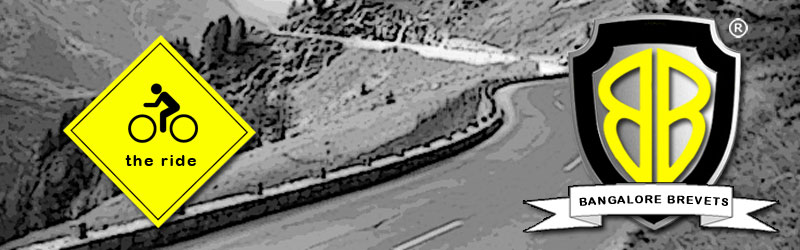
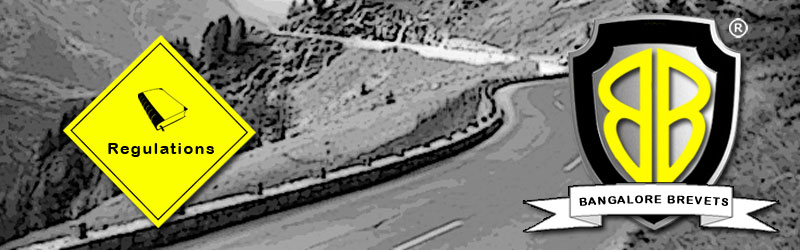
Manish | Commit : Updated TheRide.htm and TheRoute.htm pages

Changed region(s): [[0.125, 0.336, 0.2812, 0.672]]

diff --git a/Riders-BRM200.htm b/Riders-BRM200.htm
@@ -1,18 +1,34 @@
 <!DOCTYPE html PUBLIC "-//W3C//DTD XHTML 1.0 Transitional//EN" "http://www.w3.org/TR/xhtml1/DTD/xhtml1-transitional.dtd">
 <html xmlns="http://www.w3.org/1999/xhtml" >
 <head>
-    <title>registered riders for the Brevet 200K on January 15, 2011</title>    
-            <STYLE TYPE="text/css">
-      a:link {color: white; text-decoration: none; }
-      a:visited {color: white; text-decoration: none; }
 
-      TABLE#main a:link {color: blue; text-decoration: none;}
-      TABLE#main a:visited {color: blue; text-decoration: none;}
-      TABLE#main a:hover {color: red; text-decoration: underline; }
 
-      a:hover {color: red; text-decoration: underline; }
-      a:active {color: red; }
-    </STYLE>
+<title>Registered Riders for BRM 200K</title>    
+           
+           
+           
+<style>
+    body{font-family:arial;}
+    table{font-size:80%}
+    a{color:black;text-decoration:none;font:bold}
+    a:hover{color:white;background:Silver}
+    td.menu{background:Silver}
+    table.menu{font-size:80%;position:absolute;visibility:hidden;}
+</style>
+
+<script type="text/javascript">
+function showmenu(elmnt)
+{
+document.getElementById(elmnt).style.visibility="visible";
+document.getElementById(elmnt).style.backgroundColor="white";
+
+}
+function hidemenu(elmnt)
+{
+document.getElementById(elmnt).style.visibility="hidden";
+}
+</script>
+
     <script type="text/javascript">
 
       var _gaq = _gaq || [];
@@ -50,69 +66,65 @@
 </map>
 
     <h6 id="Top"></h6>
-    <table align="center" style="font-size: small; font-family: Verdana;" bgcolor="white" cellpadding="0" cellspacing="0">
+    <table align="center" style="width: 810px;" bgcolor="white" cellpadding="0" cellspacing="0">
         <tr>
             <td align="center" colspan="8" style="height: 50px">
             </td>
         </tr>
         <tr>
+            <td align="center" colspan="8" style="height: 25px">
+            </td>
+        </tr>
+        <tr>
             <td align="center" colspan="8">
-	      <!-- generic, change as required -->
-                <img src="Images/Header.jpg" usemap="#map3" border="none"/></td>
+                <img border="none" src="Images/Test_Header.png" usemap="#map3" /><!-- generic, change as required --></td>
         </tr>
         <tr>
             <td align="center" colspan="8" height="5" style="width: 801px">
             </td>
         </tr>
         <tr>
-            <td align="center" colspan="8" style="width: 801px" bgcolor="#000000">
-                <table align="center" bgcolor="black" cellpadding="0" cellspacing="0" style="font-size: small;
-                    font-family: Verdana" width="80%">
-                    <tr>
-                        <td align="center" style="border-right: #ffffff thin solid; border-top: #000000 thin solid;
-                            border-left: #000000 thin solid; border-bottom: #000000 thin solid">
-                            <a href="http://www.bangalorebrevets.in" style="text-decoration: none">
-                            home</a>
-                        </td>
-                       <td align=center 
-                            style="border-color: #000000 #FFFFFF #000000 #000000; border-width: thin; border-style: solid">
-                            <a href="http://www.bangalorebrevets.in/TheRide.htm" STYLE="TEXT-DECORATION: NONE">the ride</a>
-                        </td>
-                        <td align=center 
-                            style="border-color: #000000 #FFFFFF #000000 #000000; border-width: thin; border-style: solid">
-                            <a href="http://www.bangalorebrevets.in/Registration.htm" STYLE="TEXT-DECORATION: NONE">registration</a>
-                        </td>
-                        <td align=center 
-                            style="border-color: #000000 #FFFFFF #000000 #000000; border-width: thin; border-style: solid">
-                            <a href="http://www.bangalorebrevets.in/Training.htm" STYLE="TEXT-DECORATION: NONE">training</a>
-                        </td>
-                        <td align=center 
-                            style="border-color: #000000 #FFFFFF #000000 #000000; border-width: thin; border-style: solid">
-                            <a href="http://www.bangalorebrevets.in/Contest.htm" STYLE="TEXT-DECORATION: NONE">contest</a>
-                        </td>
-                        <td align=center 
-                            style="border-color: #000000 #FFFFFF #000000 #000000; border-width: thin; border-style: solid">
-                            <a href="http://www.bangalorebrevets.in/PastRides.htm" style="text-decoration: none">past rides</a>
-                        </td>
-                        <td align=center 
-                            style="border-color: #000000 #FFFFFF #000000 #000000; border-width: thin; border-style: solid">
-                            <a href="http://www.bangalorebrevets.in/BRM200.htm" style="text-decoration: none">upcoming ride</a>
-                        </td>
-                        <td align=center>
-                            <a href="http://www.bangalorebrevets.in/ContactUs.htm" STYLE="TEXT-DECORATION: NONE">contact us</a>
-                        </td>
-                    </tr>
-                </table>
+            <td align="center" colspan="8" style="width: 801px; height: 52px;" >
+            
+            <table   cellpadding="0" cellspacing="0" style="font-size: medium; width: 800px; height: 30px; background-color: silver;">
+                    
+
+  <td style="width: 150px;"><a href="http://www.bangalorebrevets.in" title="Home">Home</a></td>
+  
+  <td onmouseover="showmenu('tutorials')" onmouseout="hidemenu('tutorials')" align="left" style="width: 150px;">
+   <a href="/default.asp">The ride</a>
+   <table class="menu" id="tutorials" width="150" >
+   <tr><td class="menu"><a href="http://www.bangalorebrevets.in/TheRide.htm" title="The regulations">The regulations</a></td></tr>
+   <tr><td class="menu"><a href="http://www.bangalorebrevets.in/Registration.htm" title="The route">The route</a></td></tr>
+   <tr><td class="menu"><a href="http://www.bangalorebrevets.in/PastRides.htm" title="Past rides">Past rides</a></td></tr>
+   <tr><td class="menu"><a href="http://www.bangalorebrevets.in/BRM200.htm" title="upcoming rides">Upcoming rides</a></td></tr>
+   </table>
+  </td>
+  <td onmouseover="showmenu('scripting')" onmouseout="hidemenu('scripting')" align="left" style="width: 150px;">
+   <a href="/default.asp">Registration</a>
+   <table class="menu" id="scripting" width="150">
+   <tr><td class="menu"><a href="http://www.bangalorebrevets.in/Registration.htm" title="Registrations for Brevets">How to register?</a></td></tr>
+   <tr><td class="menu"><a href="http://www.bangalorebrevets.in/Riders-BRM200.htm" title="Current riders">List of registered rides</a></td></tr>
+   <tr><td class="menu"><a href=#>What is included?</a></td></tr>
+   </table>
+  </td>
+  
+  
+  <td onmouseover="showmenu('validation')" onmouseout="hidemenu('validation')" align="left" style="width: 150px;">
+   <a href="/site/site_validate.asp">Preparation</a>
+   <table class="menu" id="validation" width="150">
+   <tr><td class="menu"><a href="http://www.bangalorebrevets.in/Training.htm" title = "Which bike is the right bike?">Which is the right bike?</a></td></tr>
+   <tr><td class="menu"><a href="http://www.bangalorebrevets.in/Training.htm" title ="Nutrition">Nutrition</a></td></tr>
+   <tr><td class="menu"><a href="http://www.bangalorebrevets.in/Training.htm" title ="Clothing">Clothing</a></td></tr>
+   <tr><td class="menu"><a href="http://www.bangalorebrevets.in/Training.htm" title ="Pratice rides">Pratice rides</a></td></tr>
+   </table>
+  </td>
+  <td style="width: 150px;"><a href=#>Riders profile</a></td>
+  <td style="width: 150px;"><a href="/default.asp">Contest</a></td>
+  <td style="width: 150px;"><a href=#>Contact us</a></td>
+</table>
+
             </td>
-        </tr>
-        <tr>
-            <td align="center" colspan="8" height="10">
-            </td>
-        </tr>
-        <tr>
-            <td align="center" colspan="8" style="width: 801px; height: 24px">
-            <!--<img src="Images/TheRideH1.jpg" /><br />
-                <img src="Images/SubNav.jpg" usemap="#map2" border="none"/></td>-->
         </tr>
         <tr>
             <td align="center" colspan="8" style="height: 10px">
@@ -120,7 +132,7 @@
         </tr>
         <tr>
             <td align="center" colspan="8" style="width: 801px" valign="middle">
-                <table align="center" cellpadding="0" cellspacing="0" width="765" id=main>
+                <table align="center" cellpadding="0" cellspacing="0" width="765" id=main style="width: 800px">
                     <tr>
                         <td colspan="3" rowspan="3" style="padding-right: 5px; padding-left: 5px; font-size: small;
                             padding-bottom: 5px; color: black; padding-top: 5px; font-family: Verdana; height: 100px;
@@ -239,23 +251,12 @@
         </tr>
         <tr>
             <td align="center" colspan="8" style="width: 801px; height: 24px">
-                <table cellpadding="0" cellspacing="0" style="padding-right: 5px; font-weight: bold;
-                    font-size: small; color: white; font-family: Verdana; height: 1px; background-color: black;
-                    text-align: right; font-variant: small-caps" width="769">
-                    <tr>
-                      <td colspan="3" rowspan="3">
-                          Powered by <a href='http://www.bangalorebikersclub.com/'>BBC</a> </td>
-                    </tr>
-                    <tr>
-                    </tr>
-                    <tr>
-                    </tr>
-                </table>
+            <TABLE 
+style="PADDING-RIGHT: 5px; FONT-SIZE: small; COLOR: black; FONT-FAMILY: Arial; HEIGHT: 30px; BACKGROUND-COLOR: silver; TEXT-ALIGN: right; FONT-VARIANT: normal" 
+cellSpacing=0 cellPadding=0 width=800><TBODY><TR><TD colSpan=3 rowSpan=3>Copyright 2010-2011 | Bangalore Brevets | All 
+Rights Reserved </TD></TR><TR></TR><TR></TR></TBODY></TABLE>
+
             </td>
-        </tr>
-        <tr>
-            <td align="center" colspan="8" style="width: 801px; height: 24px">
-                Copyright 2010-2011 | Bangalore Brevets | All Rights Reserved</td>
         </tr>
         <tr>
             <td align="center" colspan="8" style="width: 801px; height: 24px">

diff --git a/TheRoute.htm b/TheRoute.htm
@@ -39,15 +39,7 @@ document.getElementById(elmnt).style.visibility="hidden";
     
 </head>
 <body bgcolor="gray">
-    <map name="map1">
-        <area shape="RECT" coords="78,10,135,25" href="http://www.bangalorebrevets.in/TheRide.htm" title="the ride">
-        <area shape="RECT" coords="185,10,270,25" href="http://www.bangalorebrevets.in/Registration.htm" title="registration">
-        <area shape="RECT" coords="330,10,380,25" href="http://www.bangalorebrevets.in/Training.htm" title="training">
-        <area shape="RECT" coords="435,10,490,25" href="http://www.bangalorebrevets.in/Contest.htm" title="contest">
-        <area shape="RECT" coords="545,10,590,25" href="http://www.bangalorebrevets.in/Forum.htm" title="forum">
-        <area shape="RECT" coords="655,10,725,25" href="http://www.bangalorebrevets.in/ContactUs.htm" title="contact us">
-    </map>
-    <map name="map3">
+        <map name="map3">
         <area shape="RECT" coords="565,10,745,230" href="http://www.bangalorebrevets.in" title="home page">
     </map>
     <a href="https://github.com/rohankini/BangaloreBrevets" id="Top">
@@ -62,8 +54,7 @@ document.getElementById(elmnt).style.visibility="hidden";
         </tr>
         <tr>
             <td align="center" colspan="8">
-                <img src="http://www.bangalorebrevets.in/Images/Register.jpg" usemap="#map3" border="none" />
-            </td>
+                <img src="Images/TheRoute.jpg" usemap="#map3" border="none"/>&nbsp;</td>
         </tr>
         <tr>
             <td align="center" colspan="8" height="5" style="width: 801px">
